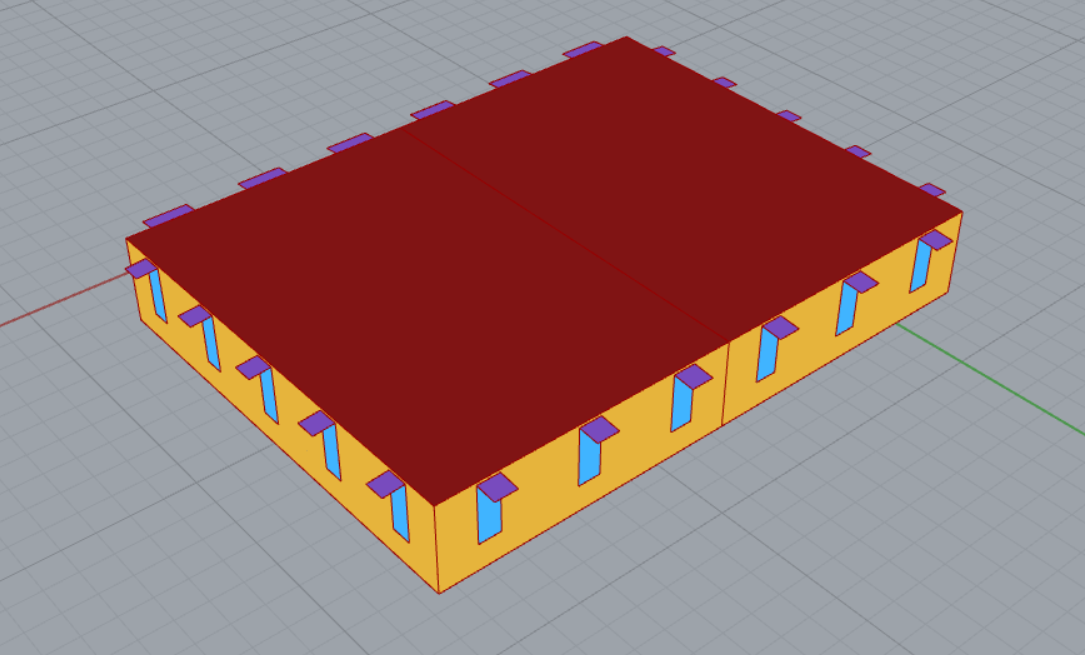
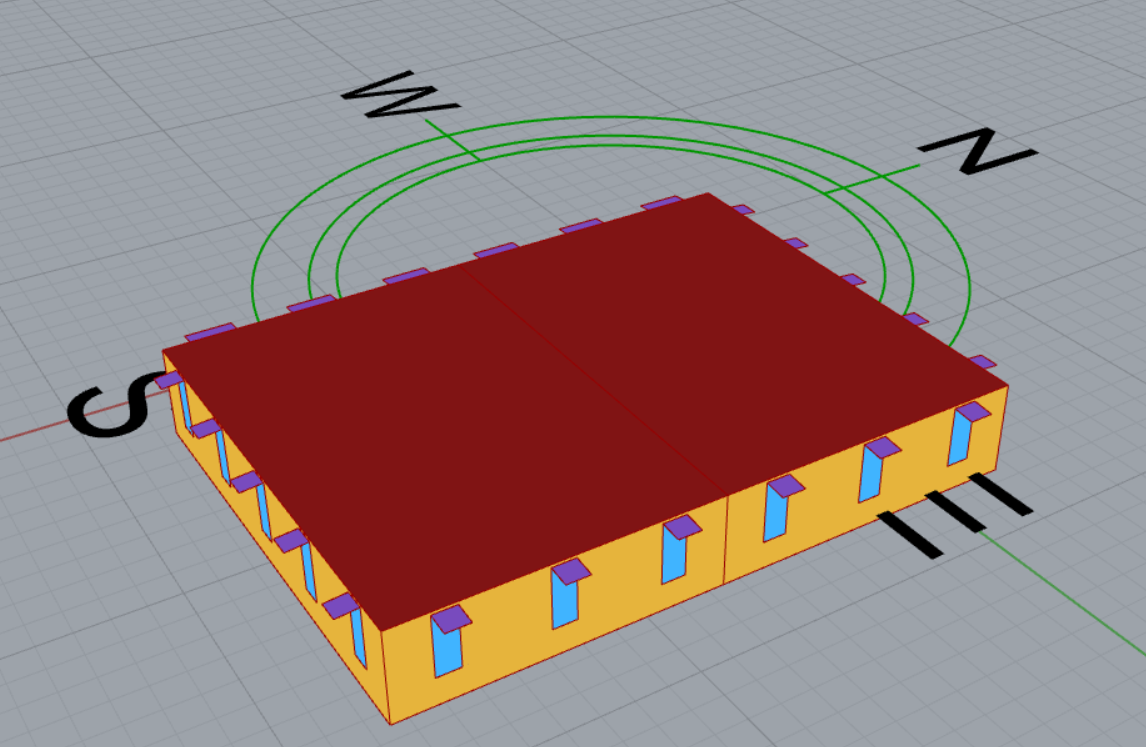
updated thumbnail images

diff --git a/wallacei-building-performance.html b/wallacei-building-performance.html
@@ -49,10 +49,9 @@
         <section class="project-section" style="background: white; padding: 2.5rem; margin: 2rem 0; border-radius: 12px; box-shadow: 0 4px 20px rgba(0, 0, 0, 0.08);">
             <h2 style="font-family: var(--font-primary, 'JetBrains Mono'); font-size: 1.8rem; color: #000; margin-bottom: 1.5rem; border-bottom: 3px solid #ff6b00; padding-bottom: 0.5rem; display: inline-block;">1. Introduction</h2>
             <p style="color: #666; line-height: 1.7; margin-bottom: 1.5rem;">
-                This project explores how parametric optimization can enhance the environmental performance of building envelopes. Using the Wallacei plugin for Grasshopper, we analyzed how variations in façade parameters influence energy demand and thermal comfort.
-            </p>
+                This project investigates how parametric optimization can enhance the environmental performance of building envelopes in marine climates. Using the Wallacei plugin for Grasshopper, a multi-objective evolutionary algorithm (MOEA) was applied to explore 5,000 façade design variations simulated through Honeybee-Energy (EnergyPlus).</p>
             <p style="color: #666; line-height: 1.7; margin-bottom: 1rem;">
-                Through a multi-objective evolutionary algorithm (MOEA), Wallacei generated and evaluated 5,000 design solutions, optimizing simultaneously for:
+                The optimization targeted three competing objectives: minimizing heating load, cooling load, and overheating risk (%). It investigates how façade parameters such as window-to-wall ratio, shading depth, and orientation influence thermal comfort and energy performance. The study aims to identify balanced design configurations that enhance low-energy building envelopes while maintaining occupant comfort.
             </p>
             <ul style="color: #666; line-height: 1.7; padding-left: 1.5rem;">
                 <li><strong>Cooling Load</strong></li>
@@ -218,18 +217,18 @@
         <section class="project-section" style="background: white; padding: 2.5rem; margin: 2rem 0; border-radius: 12px; box-shadow: 0 4px 20px rgba(0, 0, 0, 0.08);">
             <h2 style="font-family: var(--font-primary, 'JetBrains Mono'); font-size: 1.8rem; color: #000; margin-bottom: 1.5rem; border-bottom: 3px solid #ff6b00; padding-bottom: 0.5rem; display: inline-block;">3. Objective Space Analysis</h2>
             <p style="color: #666; line-height: 1.7; margin-bottom: 1.5rem;">
-                The Objective Space in Wallacei visualizes the performance of all 5,000 simulated design options across the three optimization goals — Cooling, Heating, and Overheating Risk. Each point represents a design solution, and together they form a 3D surface known as the Pareto front.
+                The Objective Space in Wallacei visualizes the performance of all 5,000 simulated design options across the three optimization goals: cooling load, heating load, and overheating risk (%). Each point represents a unique façade configuration, collectively forming a Pareto front that reveals the trade-offs between competing objectives.    
             </p>
             <p style="color: #666; line-height: 1.7; margin-bottom: 1rem;">
                 This surface illustrates the trade-offs between objectives:
             </p>
             <ul style="color: #666; line-height: 1.7; padding-left: 1.5rem; margin-bottom: 1.5rem;">
-                <li><strong>Cooling vs. Overheating:</strong> As cooling demand decreases, overheating tends to rise — reducing energy use often means accepting higher indoor temperatures during hot periods.</li>
-                <li><strong>Heating vs. Overheating:</strong> Reducing heating demand can also increase overheating, since designs that capture more solar gain in winter may cause excess heat in summer.</li>
-                <li><strong>Cooling vs. Heating:</strong> These two objectives are naturally opposing — strategies that help one often worsen the other.</li>
+                <li><strong>Heating vs. Cooling:</strong> When heating demand is minimized through higher solar gains and larger south-facing glazing, cooling demand tends to increase due to greater solar exposure.</li>
+                <li><strong>Heating vs. Overheating:</strong> Designs that lower heating demand often face higher overheating risk for the same reason—greater solar gain that benefits winter comfort can cause excessive summer heat.</li>
+                <li><strong>Cooling vs. Overheating:</strong> Solutions that minimize cooling load also tend to maintain low overheating percentages, but this comes with higher heating requirements caused by reduced passive solar gains.</li>
             </ul>
             <p style="color: #666; line-height: 1.7;">
-                Rather than a single "best" design, the Pareto front reveals a spectrum of optimal solutions, each balancing energy and comfort differently. This enables the designer to choose based on priorities — for instance, minimizing overheating risk versus maximizing energy savings.
+                This trade-off is characteristic of the marine climate in the Pacific Northwest, where mild summers and extended heating seasons create tension between minimizing winter heat loss and avoiding summer overheating. The Pareto front did not yield a single optimal configuration but rather a continuum of balanced solutions. From these, the most effective designs achieved moderate heating loads with controlled solar exposure, demonstrating that façade balance is more impactful than simply maximizing or minimizing a single objective.    
             </p>
 
             <!-- Objective Space Visualization Carousel -->
@@ -296,18 +295,21 @@
             <ul style="color: #666; line-height: 1.7; padding-left: 1.5rem; margin-bottom: 1rem;">
                 <li>Early generations show high variation (red curves), reflecting broad exploration of cooling strategies.</li>
                 <li>As evolution progresses, curves tighten into blue clusters, and the SD trend line flattens — indicating stabilization and convergence toward consistent, efficient cooling solutions.</li>
+                <li>Cooling standard deviation appears to stabilize between 0.62 and 0.63 after generation 90.</li>
             </ul>
 
             <h3 style="color: #000; margin: 1.5rem 0 1rem; font-size: 1.3rem;">Heating Load (FO2)</h3>
             <ul style="color: #666; line-height: 1.7; padding-left: 1.5rem; margin-bottom: 1rem;">
                 <li>Initial generations show wider performance spread, which gradually narrows as the algorithm learns optimal heating strategies.</li>
                 <li>The SD trend rises and then levels off, showing that the population converged around stable heating performance with reduced variability.</li>
+                <li>Heating standard deviation appears to stabilize between 2.9 and 3.0 after generation 90.</li>
             </ul>
 
             <h3 style="color: #000; margin: 1.5rem 0 1rem; font-size: 1.3rem;">Overheating Percentage (FO3)</h3>
             <ul style="color: #666; line-height: 1.7; padding-left: 1.5rem; margin-bottom: 1rem;">
                 <li>High initial deviation highlights early exploration of comfort performance.</li>
                 <li>Over time, curves contract, and the SD trend stabilizes — marking reduced performance volatility and convergence toward well-performing comfort zones.</li>
+                <li>Heating standard deviation appears to stabilize between 9.0 and 9.2 after generation 90.</li>
             </ul>
 
             <h3 style="color: #000; margin: 1.5rem 0 1rem; font-size: 1.3rem;">Summary</h3>
@@ -379,16 +381,22 @@
         <section class="project-section" style="background: white; padding: 2.5rem; margin: 2rem 0; border-radius: 12px; box-shadow: 0 4px 20px rgba(0, 0, 0, 0.08);">
             <h2 style="font-family: var(--font-primary, 'JetBrains Mono'); font-size: 1.8rem; color: #000; margin-bottom: 1.5rem; border-bottom: 3px solid #ff6b00; padding-bottom: 0.5rem; display: inline-block;">5. Clustering & Solution Grouping</h2>
             <p style="color: #666; line-height: 1.7; margin-bottom: 1.5rem;">
-                To better understand the range of optimized designs, K-means clustering was applied to the Pareto front solutions. This method grouped designs with similar performance characteristics across the three objectives — Cooling, Heating, and Overheating %.
+                We applied K-means clustering to the Pareto set to reveal families of solutions with similar performance across Cooling, Heating, and Overheating%. Three distinct clusters emerged:    
             </p>
             <p style="color: #666; line-height: 1.7; margin-bottom: 1.5rem;">
                 The clustering revealed three distinct performance families, each representing a different design trade-off strategy:
             </p>
             <ul style="color: #666; line-height: 1.7; padding-left: 1.5rem;">
-                <li><strong>Cluster 1:</strong> Low cooling demand but slightly higher overheating risk</li>
-                <li><strong>Cluster 2:</strong> Balanced trade-offs between all objectives</li>
-                <li><strong>Cluster 3:</strong> Higher heating demand but well-controlled overheating</li>
+                <li><strong>Cluster 1:</strong> Solar-open designs: Lower heating but higher cooling and overheating%. These solutions generally feature higher WWR and/or higher SHGC with modest shading, which helps winter demand but elevates summer peaks.</li>
+                <li><strong>Cluster 2:</strong> Balanced designs: Comparable levels across all three objectives, typically landing near the ≤10% overheating constraint. Mid-range WWR, SHGC, and shading geometry characterize this group.</li>
+                <li><strong>Cluster 3:</strong> Solar-protected designs: Lower cooling and overheating% at the expense of higher heating. These solutions use lower WWR or SHGC and deeper/steeper shading to control summer gains.</li>
             </ul>
+            
+            <!-- K-means Clustering Visualization -->
+            <div style="margin: 2rem 0; text-align: center;">
+                <img src="assets/images/wallacei analysis/kmeanscluster.png" alt="K-means Clustering Visualization" style="max-width: 100%; height: auto; border-radius: 8px; box-shadow: 0 4px 10px rgba(0,0,0,0.1);" />
+                <p style="color: #666; margin-top: 1rem; font-style: italic; font-size: 0.9rem;">K-means clustering analysis showing three distinct performance groups</p>
+            </div>
         </section>
 
         <!-- 6. Balanced Fitness Objective Analysis -->

diff --git a/portfolio.html b/portfolio.html
@@ -47,7 +47,7 @@
                     <!-- ...existing portfolio items... -->
                     <div class="portfolio-item" data-category="web">
                         <div class="portfolio-image">
-                            <img src="assets/images/grasshopperthumbnail.png" alt="Building Analytics" class="project-thumbnail">
+                            <img src="assets/images/grasshopperfile.png" alt="Building Analytics" class="project-thumbnail">
                         </div>
                         <div class="portfolio-content">
                             <h3>Multi-Objective Building Performance Optimization</h3>
